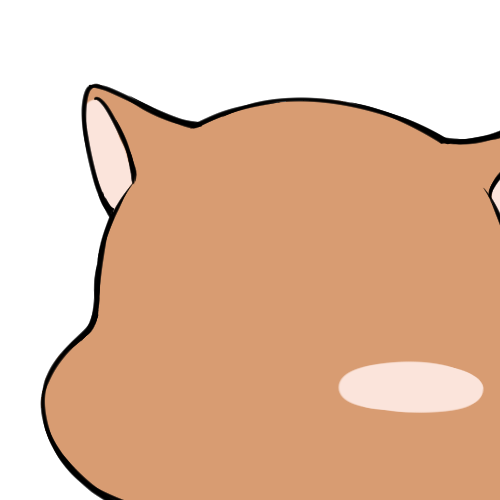
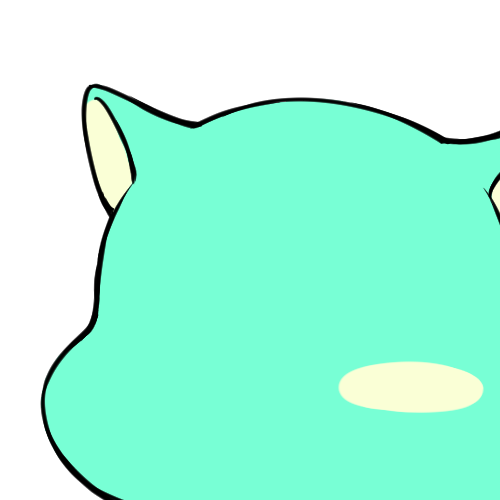
hotfix:셀렉리스트에 순정만화눈 누락 수정

diff --git a/animal-app/src/component/selectData.jsx b/animal-app/src/component/selectData.jsx
@@ -14,15 +14,16 @@ module.exports.Options = [
     }
     ,
     {
+
         colorselect:
-            [   { key: 0, value: "민트" },
+            [   { key: 0, value: "라이트브라운" },
                 { key: 1, value: "베이지" },
                 { key: 2, value: "브라운" },
                 { key: 3, value: "살구" },
                 { key: 4, value: "아이보리" },
                 { key: 5, value: "화이트" },
                 { key: 6, value: "차콜" },
-                { key: 7, value: "라이트브라운" },
+                { key: 7, value: "민트" },
                 { key: 8, value: "블랙" },
                 { key: 9, value: "라이트그레이" },
                 { key: 10, value: "레드" },
@@ -36,7 +37,7 @@ module.exports.Options = [
     ,
     {
         eyesselect:
-            [
+            [   { key: 0, value: "순정만화눈" },
                 { key: 1, value: "맑은눈" },
                 { key: 2, value: "화난눈" },
                 { key: 3, value: "점눈(큰)" },
